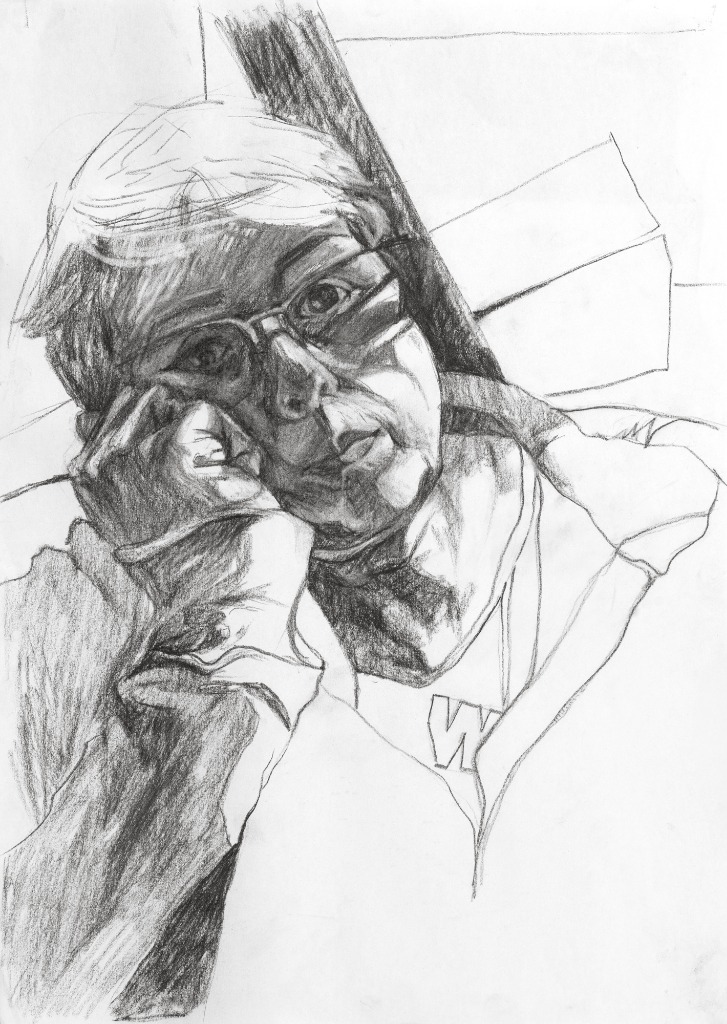
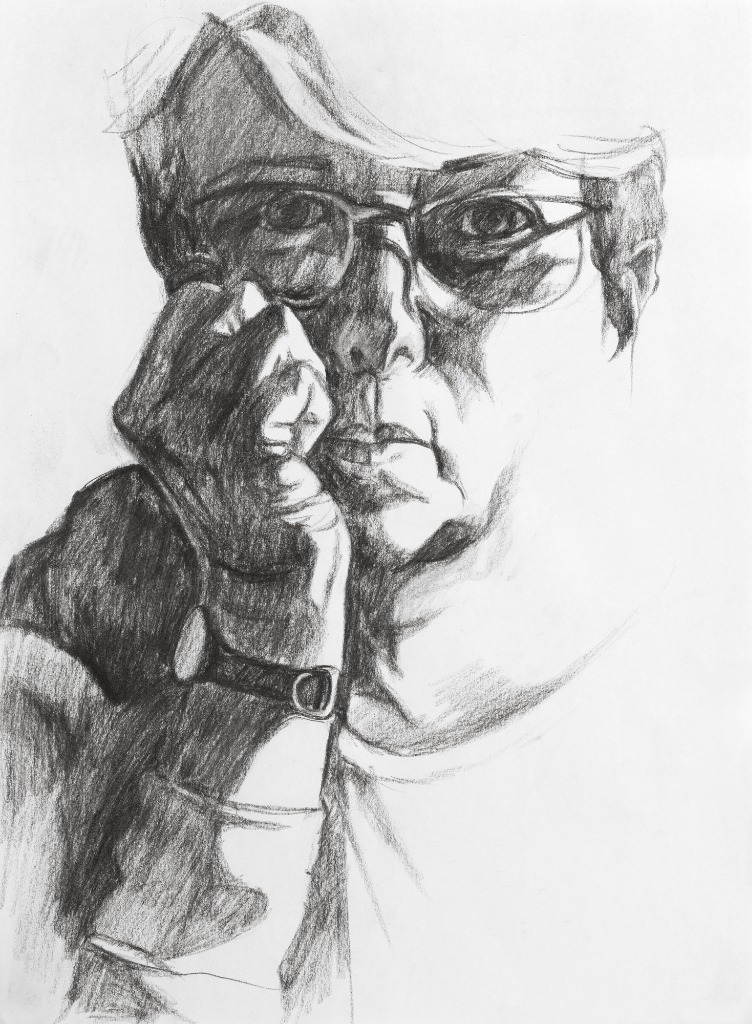
החלפת תמונות סבב 8

diff --git a/src/data/galleries.js b/src/data/galleries.js
@@ -830,6 +830,13 @@ export const galleries = [
         "alt": "דיוקן קורונה34",
         "orientation": "portrait",
         "caption": "30x42 ס\"מ | טכניקה: רישום פחם סינטטי"
+      },
+      {
+        "id": "gallery_6_36",
+        "url": "/galleries/דיוקן קןרונה ברישום ואקוורל/דיוקן קןרונה ברישום ואקוורל/דיוקן קורונה35.jpg",
+        "alt": "דיוקן קורונה35",
+        "orientation": "portrait",
+        "caption": "30x42 ס\"מ | טכניקה: רישום פחם סינטטי"
       }
     ]
   },